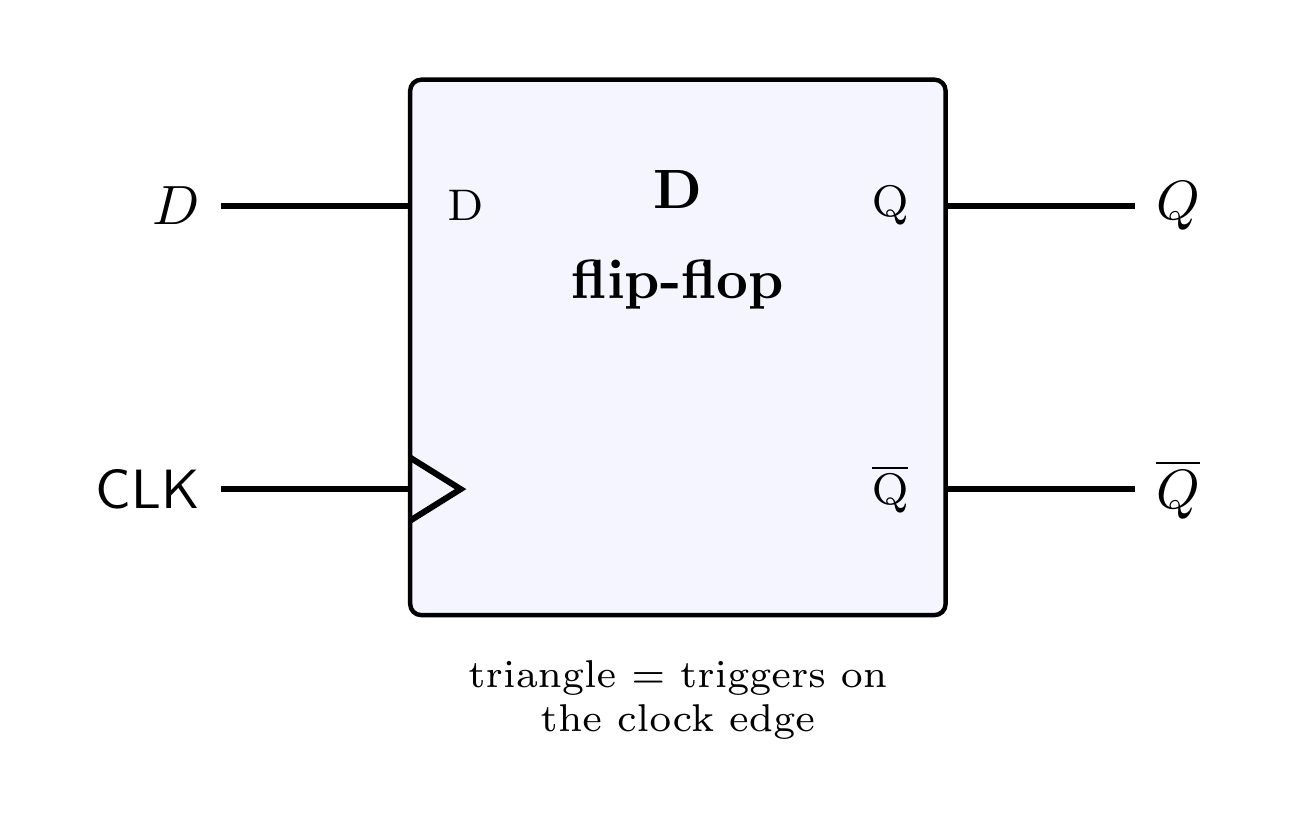
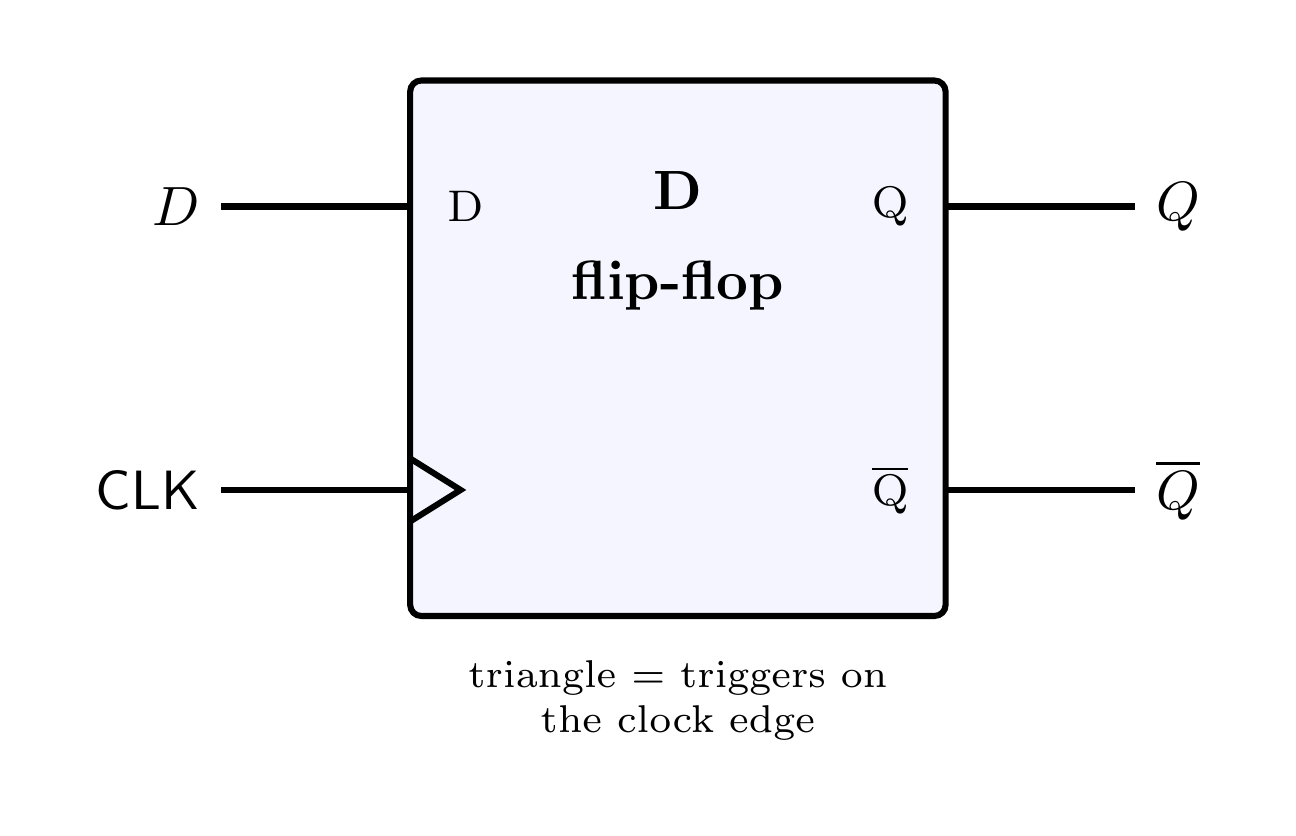
unite stroke width

diff --git a/circuit.tex b/circuit.tex
@@ -12,11 +12,11 @@
 \usepackage{circuitikz}
 \usepackage{amsmath}
 \usetikzlibrary{calc}
-\tikzset{dl/.style={thick, rounded corners=3pt, fill=blue!5}}
+\tikzset{dl/.style={rounded corners=3pt, fill=blue!5}}
 
 \begin{document}
-\begin{circuitikz}[line width=1.2pt, font=\sffamily, scale=1.0]
-  \ctikzset{logic ports=american, logic ports/thickness=1.2}
+\begin{circuitikz}[line width=1.1pt, font=\sffamily, scale=1.0]
+  \ctikzset{logic ports=american, logic ports/thickness=1.1}
 
   % ---------- master & slave D-latch blocks ----------
   \draw[dl] (5.0,3.0) rectangle (9.0,7.0);

diff --git a/wiring.tex b/wiring.tex
@@ -12,10 +12,10 @@
 \usepackage{circuitikz}
 \usepackage{tikz}
 \usetikzlibrary{calc}
-\tikzset{brd/.style={thick, rounded corners=3pt, fill=blue!6}}
+\tikzset{brd/.style={rounded corners=3pt, fill=blue!6}}
 
 \begin{document}
-\begin{tikzpicture}[line width=1.2pt, font=\sffamily]
+\begin{tikzpicture}[line width=1.1pt, font=\sffamily]
 
   % ---------- two D-latch boards ----------
   \draw[brd] (5.0,3.0) rectangle (9.0,7.0);

diff --git a/symbol.tex b/symbol.tex
@@ -7,7 +7,7 @@
 \usepackage{amsmath}
 \begin{document}
 \begin{tikzpicture}[line width=1.1pt, font=\sffamily]
-  \draw[thick, rounded corners=2pt, fill=blue!4] (0,0) rectangle (3.4,3.4);
+  \draw[rounded corners=2pt, fill=blue!4] (0,0) rectangle (3.4,3.4);
   \node[font=\bfseries] at (1.7,2.7) {D};
   \node[font=\bfseries] at (1.7,2.1) {flip-flop};
   % D input